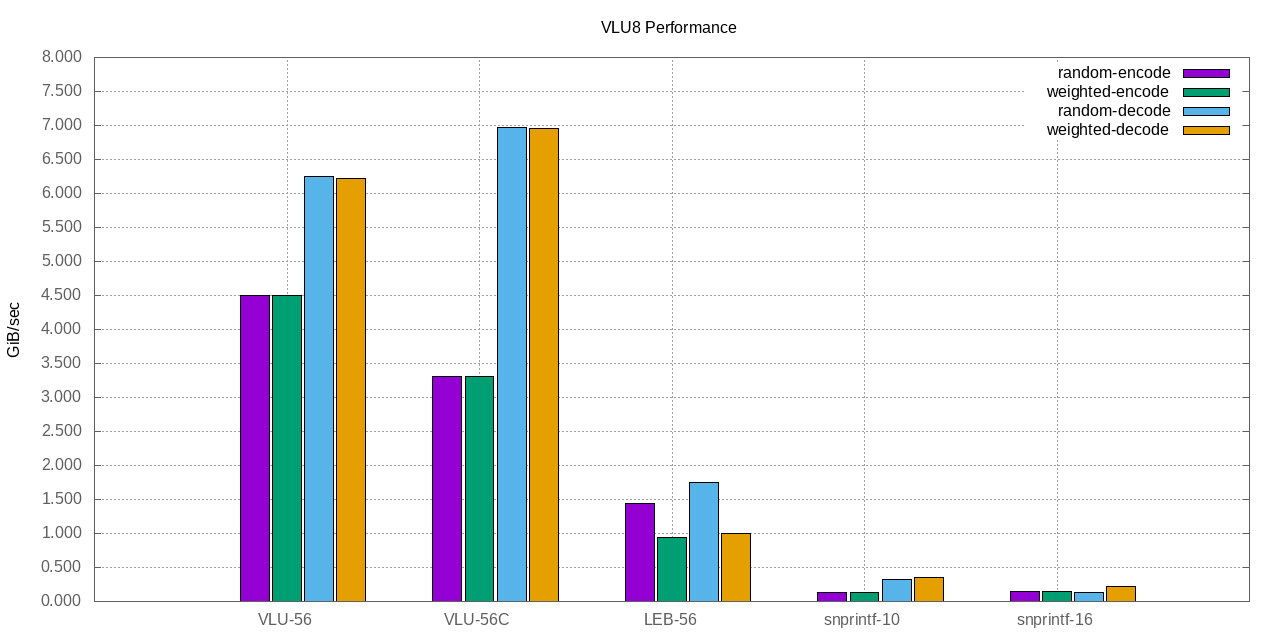
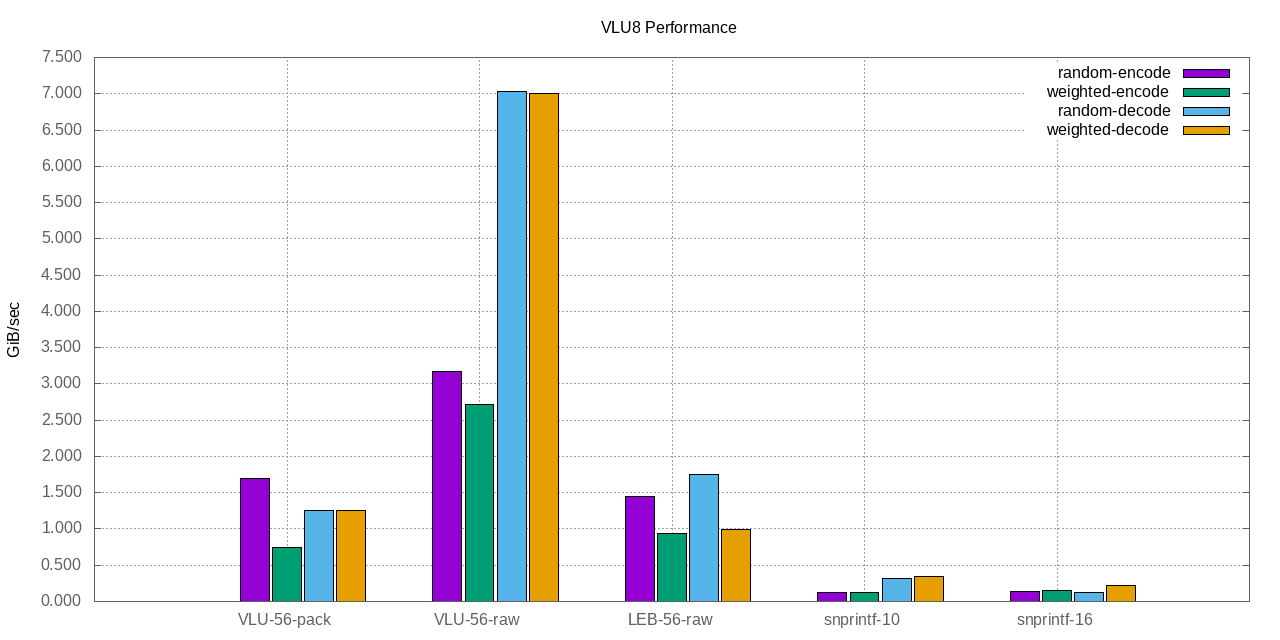
Update size calculation and byte array encode/decode code and benchmarks

diff --git a/src/vlu_bench.cc b/src/vlu_bench.cc
@@ -80,7 +80,7 @@ static void setup_random_uvlu(bench_context &ctx)
     ctx.in.resize(ctx.item_count);
     ctx.out.resize(ctx.item_count);
     for (size_t i = 0; i < ctx.item_count; i++) {
-        ctx.in[i] = vlu_encode_56(ctx.random.next_pure()).val;
+        ctx.in[i] = vlu_encode_56c(ctx.random.next_pure()).val;
     }
 }
 
@@ -89,7 +89,7 @@ static void setup_weighted_uvlu(bench_context &ctx)
     ctx.in.resize(ctx.item_count);
     ctx.out.resize(ctx.item_count);
     for (size_t i = 0; i < ctx.item_count; i++) {
-        ctx.in[i] = vlu_encode_56(ctx.random.next_weighted()).val;
+        ctx.in[i] = vlu_encode_56c(ctx.random.next_weighted()).val;
     }
 }
 
@@ -207,20 +207,6 @@ static void bench_vlu_decode_56c(bench_context &ctx)
 {
     for (size_t i = 0; i < ctx.item_count; i++) {
         ctx.out[i] = vlu_decode_56c(ctx.in[i]).val;
-    }
-}
-
-static void bench_vlu_encode_56(bench_context &ctx)
-{
-    for (size_t i = 0; i < ctx.item_count; i++) {
-        ctx.out[i] = vlu_encode_56(ctx.in[i]).val;
-    }
-}
-
-static void bench_vlu_decode_56(bench_context &ctx)
-{
-    for (size_t i = 0; i < ctx.item_count; i++) {
-        ctx.out[i] = vlu_decode_56(ctx.in[i]).val;
     }
 }
 
@@ -353,30 +339,26 @@ int run_benchmark(size_t item_count, size_t benchmark, size_t runs, size_t itera
 {
     switch (benchmark) {
     case 0:  return bench_exec(C("BARE",                          item_count, runs, iterations), setup_random,        bench_nop        );
-    case 1:  return bench_exec(C("LEB_56 encode (random)",        item_count, runs, iterations), setup_random,        bench_leb_encode_56);
-    case 2:  return bench_exec(C("LEB_56 encode (weighted)",      item_count, runs, iterations), setup_weighted,      bench_leb_encode_56);
-    case 3:  return bench_exec(C("LEB_56 decode (random)",        item_count, runs, iterations), setup_random_uleb,   bench_leb_decode_56);
-    case 4:  return bench_exec(C("LEB_56 decode (weighted)",      item_count, runs, iterations), setup_weighted_uleb, bench_leb_decode_56);
-    case 5:  return bench_exec(C("VLU_56 encode (random)",        item_count, runs, iterations), setup_random,        bench_vlu_encode_56);
-    case 6:  return bench_exec(C("VLU_56 encode (weighted)",      item_count, runs, iterations), setup_weighted,      bench_vlu_encode_56);
-    case 7:  return bench_exec(C("VLU_56 decode (random)",        item_count, runs, iterations), setup_random_uvlu,   bench_vlu_decode_56);
-    case 8:  return bench_exec(C("VLU_56 decode (weighted)",      item_count, runs, iterations), setup_weighted_uvlu, bench_vlu_decode_56);
-    case 9:  return bench_exec(C("VLU_56-C encode (random)",      item_count, runs, iterations), setup_random,        bench_vlu_encode_56c);
-    case 10: return bench_exec(C("VLU_56-C encode (weighted)",    item_count, runs, iterations), setup_weighted,      bench_vlu_encode_56c);
-    case 11: return bench_exec(C("VLU_56-C decode (random)",      item_count, runs, iterations), setup_random_uvlu,   bench_vlu_decode_56c);
-    case 12: return bench_exec(C("VLU_56-C decode (weighted)",    item_count, runs, iterations), setup_weighted_uvlu, bench_vlu_decode_56c);
-    case 13: return bench_exec(C("VLU_56-vec encode (random)",    item_count, runs, iterations), setup_random,        bench_vlu_encode_vec);
-    case 14: return bench_exec(C("VLU_56-vec encode (weighted)",  item_count, runs, iterations), setup_weighted,      bench_vlu_encode_vec);
-    case 15: return bench_exec(C("VLU_56-vec decode (random)",    item_count, runs, iterations), setup_random_vec,    bench_vlu_decode_vec);
-    case 16: return bench_exec(C("VLU_56-vec decode (weighted)",  item_count, runs, iterations), setup_weighted_vec,  bench_vlu_decode_vec);
-    case 17: return bench_exec(C("snprintf/10 encode (random)",   item_count, runs, iterations), setup_random_str,    bench_snprintf_dec_encode_56);
-    case 18: return bench_exec(C("snprintf/10 encode (weighted)", item_count, runs, iterations), setup_weighted_str,  bench_snprintf_dec_encode_56);
-    case 19: return bench_exec(C("strtoull/10 decode (random)",   item_count, runs, iterations), setup_random_dec,    bench_strtoull_dec_decode_56);
-    case 20: return bench_exec(C("strtoull/10 decode (weighted)", item_count, runs, iterations), setup_weighted_dec,  bench_strtoull_dec_decode_56);
-    case 21: return bench_exec(C("snprintf/16 encode (random)",   item_count, runs, iterations), setup_random_str,    bench_snprintf_hex_encode_56);
-    case 22: return bench_exec(C("snprintf/16 encode (weighted)", item_count, runs, iterations), setup_weighted_str,  bench_snprintf_hex_encode_56);
-    case 23: return bench_exec(C("strtoull/16 decode (random)",   item_count, runs, iterations), setup_random_hex,    bench_strtoull_hex_decode_56);
-    case 24: return bench_exec(C("strtoull/16 decode (weighted)", item_count, runs, iterations), setup_weighted_hex,  bench_strtoull_hex_decode_56);
+    case 1:  return bench_exec(C("LEB_56-raw encode (random)",    item_count, runs, iterations), setup_random,        bench_leb_encode_56);
+    case 2:  return bench_exec(C("LEB_56-raw encode (weighted)",  item_count, runs, iterations), setup_weighted,      bench_leb_encode_56);
+    case 3:  return bench_exec(C("LEB_56-raw decode (random)",    item_count, runs, iterations), setup_random_uleb,   bench_leb_decode_56);
+    case 4:  return bench_exec(C("LEB_56-raw decode (weighted)",  item_count, runs, iterations), setup_weighted_uleb, bench_leb_decode_56);
+    case 5:  return bench_exec(C("VLU_56-raw encode (random)",    item_count, runs, iterations), setup_random,        bench_vlu_encode_56c);
+    case 6:  return bench_exec(C("VLU_56-raw encode (weighted)",  item_count, runs, iterations), setup_weighted,      bench_vlu_encode_56c);
+    case 7:  return bench_exec(C("VLU_56-raw decode (random)",    item_count, runs, iterations), setup_random_uvlu,   bench_vlu_decode_56c);
+    case 8:  return bench_exec(C("VLU_50-raw decode (weighted)",  item_count, runs, iterations), setup_weighted_uvlu, bench_vlu_decode_56c);
+    case 9:  return bench_exec(C("VLU_56-pack encode (random)",   item_count, runs, iterations), setup_random,        bench_vlu_encode_vec);
+    case 10: return bench_exec(C("VLU_56-pack encode (weighted)", item_count, runs, iterations), setup_weighted,      bench_vlu_encode_vec);
+    case 11: return bench_exec(C("VLU_56-pack decode (random)",   item_count, runs, iterations), setup_random_vec,    bench_vlu_decode_vec);
+    case 12: return bench_exec(C("VLU_56-pack decode (weighted)", item_count, runs, iterations), setup_weighted_vec,  bench_vlu_decode_vec);
+    case 13: return bench_exec(C("snprintf/10 encode (random)",   item_count, runs, iterations), setup_random_str,    bench_snprintf_dec_encode_56);
+    case 14: return bench_exec(C("snprintf/10 encode (weighted)", item_count, runs, iterations), setup_weighted_str,  bench_snprintf_dec_encode_56);
+    case 15: return bench_exec(C("strtoull/10 decode (random)",   item_count, runs, iterations), setup_random_dec,    bench_strtoull_dec_decode_56);
+    case 16: return bench_exec(C("strtoull/10 decode (weighted)", item_count, runs, iterations), setup_weighted_dec,  bench_strtoull_dec_decode_56);
+    case 17: return bench_exec(C("snprintf/16 encode (random)",   item_count, runs, iterations), setup_random_str,    bench_snprintf_hex_encode_56);
+    case 18: return bench_exec(C("snprintf/16 encode (weighted)", item_count, runs, iterations), setup_weighted_str,  bench_snprintf_hex_encode_56);
+    case 19: return bench_exec(C("strtoull/16 decode (random)",   item_count, runs, iterations), setup_random_hex,    bench_strtoull_hex_decode_56);
+    case 20: return bench_exec(C("strtoull/16 decode (weighted)", item_count, runs, iterations), setup_weighted_hex,  bench_strtoull_hex_decode_56);
     }
 
     return 0;

diff --git a/src/vlu.h b/src/vlu.h
@@ -107,19 +107,11 @@ struct vlu_result
 };
 
 /*
- * vlu_size_56 - VLU8 packet size in bytes
+ * vlu_encoded_size_56c - VLU8 packet size in bytes
  */
-static int vlu_size_56(uint64_t num)
+static int vlu_encoded_size_56c(uint64_t num)
 {
-    int lz = clz(num);
-    return 9 - ((lz - 1) / 7);
-}
-
-/*
- * vlu_size_56c - VLU8 packet size in bytes
- */
-static int vlu_size_56c(uint64_t num)
-{
+    if (!num) return 1;
     int lz = clz(num);
     int t1 = 8 - ((lz - 1) / 7);
     bool cont = t1 > 7;
@@ -127,29 +119,14 @@ static int vlu_size_56c(uint64_t num)
 }
 
 /*
- * vlu_encode_56 - VLU8 encoding up to 56-bits
+ * vlu_decoded_size_56c - VLU8 packet size in bytes
  */
-static struct vlu_result vlu_encode_56(uint64_t num)
-{
-    int lz = clz(num);
-    int t1 = 8 - ((lz - 1) / 7);
-    int shamt = t1 + 1;
-    uint64_t uvlu = (num << shamt)
-        | (((num!=0) << (shamt-1))-(num!=0));
-    return (vlu_result) { uvlu, shamt };
-}
-
-/*
- * vlu_decode_56 - VLU8 decoding up to 56-bits
- */
-static struct vlu_result vlu_decode_56(uint64_t uvlu)
+static int vlu_decoded_size_56c(uint64_t uvlu)
 {
     int t1 = ctz(~uvlu);
     bool cond = t1 > 7;
     int shamt = cond ? 8 : t1 + 1;
-    uint64_t mask = ~(-!cond << (shamt << 3));
-    uint64_t num = (uvlu >> shamt) & mask;
-    return (vlu_result) { num, shamt };
+    return shamt;
 }
 
 /*
@@ -157,6 +134,7 @@ static struct vlu_result vlu_decode_56(uint64_t uvlu)
  */
 static struct vlu_result vlu_encode_56c(uint64_t num)
 {
+    if (!num) return (vlu_result) { 0, 1 };
     int lz = clz(num);
     int t1 = 8 - ((lz - 1) / 7);
     bool cont = t1 > 7;
@@ -230,13 +208,13 @@ static vlu_result vlu_decode_56c(uint64_t vlu)
 #endif
 
 /*
- * vlu_size_vec - get size of array
+ * vlu_size_vec - calculate packed size in bytes
  */
 static size_t vlu_size_vec(std::vector<uint64_t> &vec)
 {
     size_t len = 0;
     for (uint64_t val : vec) {
-        len += vlu_size_56c(val);
+        len += vlu_encoded_size_56c(val);
     }
     return len;
 }
@@ -260,7 +238,9 @@ static size_t vlu_items_vec(std::vector<uint8_t> &vec)
         case 8: d = *reinterpret_cast<uint64_t*>(&vec[i]); break;
         default: std::memcpy(&d, &vec[i], s); break;
         }
-        i += vlu_size_56c(d);
+        size_t shamt = vlu_decoded_size_56c(d);
+        assert(shamt > 0);
+        i += shamt;
         items++;
     }
     return items;
@@ -272,11 +252,14 @@ static size_t vlu_items_vec(std::vector<uint8_t> &vec)
 static void vlu_encode_vec(std::vector<uint8_t> &dst, std::vector<uint64_t> &src)
 {
     size_t l = src.size();
-    dst.reserve(l*4);
-    for (size_t i = 0 ; i < l; i++) {
-        vlu_result r = vlu_encode_56c(src[i]);
-        size_t o = dst.size();
-        dst.resize(o + r.shamt);
+    size_t o = 0;
+
+    size_t items = vlu_size_vec(src);
+    dst.resize(items);
+
+    for (uint64_t v : src)
+    {
+        vlu_result r = vlu_encode_56c(v);
         switch (r.shamt) {
         case 1: *reinterpret_cast<uint8_t*>(&dst[o]) = (uint8_t)r.val; break;
         case 2: *reinterpret_cast<uint16_t*>(&dst[o]) = (uint16_t)r.val; break;
@@ -286,6 +269,8 @@ static void vlu_encode_vec(std::vector<uint8_t> &dst, std::vector<uint64_t> &src
         case 8: *reinterpret_cast<uint64_t*>(&dst[o]) = r.val; break;
         default: std::memcpy(&dst[o], &r.val, r.shamt); break;
         }
+        assert(r.shamt > 0);
+        o += r.shamt;
     }
 }
 
@@ -295,8 +280,13 @@ static void vlu_encode_vec(std::vector<uint8_t> &dst, std::vector<uint64_t> &src
 static void vlu_decode_vec(std::vector<uint64_t> &dst, std::vector<uint8_t> &src)
 {
     size_t l = src.size();
-    dst.reserve(l/4);
-    for (size_t i = 0 ; i < l;) {
+    size_t o = 0;
+
+    size_t items = vlu_items_vec(src);
+    dst.resize(items);
+
+    for (size_t i = 0 ; i < l;)
+    {
         uint64_t d = 0;
         size_t s = std::min((size_t)8,l-i);
         switch (s) {
@@ -309,8 +299,11 @@ static void vlu_decode_vec(std::vector<uint64_t> &dst, std::vector<uint8_t> &src
         default: std::memcpy(&d, &src[i], s); break;
         }
         vlu_result r = vlu_decode_56c(d);
-        dst.push_back(r.val);
+        assert(r.shamt > 0);
+        assert(o < items);
+        dst[o] = r.val;
         i += r.shamt;
+        o++;
     }
 }
 

diff --git a/src/vlu_test.cc b/src/vlu_test.cc
@@ -45,15 +45,45 @@ void test_encode_uvlu()
 {
     bench_random random;
 
-    assert(vlu_encode_56(0).val == 0b0);
-    assert(vlu_encode_56(1).val == 0b10);
-    assert(vlu_encode_56(2).val == 0b100);
-    assert(vlu_encode_56(0x00ffffffffffffff).val == 0xffffffffffffff7f);
+    assert(vlu_encoded_size_56c(0) == 1);
+    assert(vlu_encoded_size_56c(1) == 1);
+    assert(vlu_encoded_size_56c(2) == 1);
+    assert(vlu_encoded_size_56c(0x123456789abcde) == 8);
+    assert(vlu_encoded_size_56c(0xffffffffffffff) == 8);
+
+    assert(vlu_decoded_size_56c(0b0000) == 1);
+    assert(vlu_decoded_size_56c(0b0001) == 2);
+    assert(vlu_decoded_size_56c(0b0101) == 2);
+    assert(vlu_decoded_size_56c(0b0011) == 3);
+    assert(vlu_decoded_size_56c(0b1011) == 3);
+    assert(vlu_decoded_size_56c(0x123456789abcde7f) == 8);
+    assert(vlu_decoded_size_56c(0xffffffffffffff7f) == 8);
 
     assert(vlu_encode_56c(0).val == 0b0);
+    assert(vlu_encode_56c(0).shamt == 1);
     assert(vlu_encode_56c(1).val == 0b10);
+    assert(vlu_encode_56c(1).shamt == 1);
     assert(vlu_encode_56c(2).val == 0b100);
+    assert(vlu_encode_56c(2).shamt == 1);
+    assert(vlu_encode_56c(0x00123456789abcde).val == 0x123456789abcde7f);
+    assert(vlu_encode_56c(0x00123456789abcde).shamt == 8);
     assert(vlu_encode_56c(0x00ffffffffffffff).val == 0xffffffffffffff7f);
+    assert(vlu_encode_56c(0x00ffffffffffffff).shamt == 8);
+
+    assert(vlu_decode_56c(0b0000).val == 0b0);
+    assert(vlu_decode_56c(0b0000).shamt == 1);
+    assert(vlu_decode_56c(0b0001).val == 0);
+    assert(vlu_decode_56c(0b0001).shamt == 2);
+    assert(vlu_decode_56c(0b0101).val == 1);
+    assert(vlu_decode_56c(0b0101).shamt == 2);
+    assert(vlu_decode_56c(0b0011).val == 0);
+    assert(vlu_decode_56c(0b0011).shamt == 3);
+    assert(vlu_decode_56c(0b1011).val == 1);
+    assert(vlu_decode_56c(0b1011).shamt == 3);
+    assert(vlu_decode_56c(0x123456789abcde7f).val == 0x123456789abcde);
+    assert(vlu_decode_56c(0x123456789abcde7f).shamt == 8);
+    assert(vlu_decode_56c(0xffffffffffffff7f).val == 0x00ffffffffffffff);
+    assert(vlu_decode_56c(0xffffffffffffff7f).shamt == 8);
 
     for (size_t i = 0; i < 100; i++) {
         uint64_t val = random.next_weighted() & ((1ull<<56)-1ull);

diff --git a/src/vlu_demo.cc b/src/vlu_demo.cc
@@ -60,7 +60,7 @@ static void print_one_uvlu(uint64_t val)
 {
     uint64_t vlu = vlu_encode_56c(val).val;
     uint64_t num = vlu_decode_56c(vlu).val;
-    size_t sz = vlu_size_56(val);
+    size_t sz = vlu_encoded_size_56c(val);
 
     print_binary("IN       ", sz, val);
     print_binary(" \\VLU    ", sz, vlu);

diff --git a/README.md b/README.md
@@ -102,15 +102,16 @@ _Figure 2: VLU8 Benchmarks (GiB/sec)_
 
 |Benchmark     |random-encode (GiB/sec) |weighted-encode (GiB/sec) |random-decode (GiB/sec) |weighted-decode (GiB/sec) |
 |:-------------|-------------:|---------------:|-------------:|---------------:|
-|VLU-56        |4.493         |4.500           |6.251         |6.216           |
-|VLU-56C       |3.310         |3.313           |6.976         |6.951           |
-|LEB-56        |1.442         |0.943           |1.755         |0.996           |
+|VLU&#8209;56&#8209;pack   |1.693         |0.741           |1.260         |1.255           |
+|VLU-56-raw    |3.172         |2.712           |7.028         |7.002           |
+|LEB-56-raw    |1.442         |0.943           |1.755         |0.996           |
 |snprintf-10   |0.126         |0.129           |0.318         |0.351           |
 |snprintf-16   |0.143         |0.146           |0.129         |0.217           |
 
 #### Benchmark Notes
 
-- `VLU-56C` denotes the VLU decoder variant that checks for continuations.
+- `VLU-56-raw` and `LEB-56-raw` just test the raw encode/decode functions.
+- `VLU_56-pack` tests encoding/decoding plus packing/unpacking to/from byte vectors.
 - `snprintf` denotes `strtoull` and `snprintf` for ASCII decimal or hexidecimal.
 
 ## Example code
